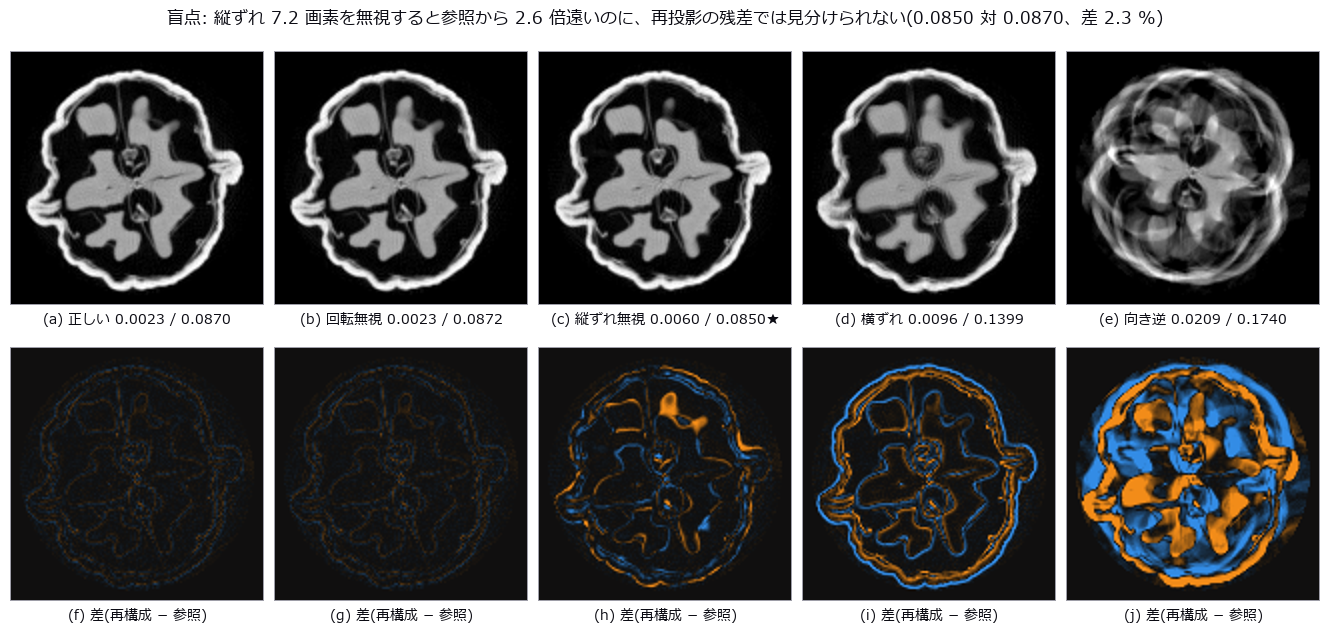
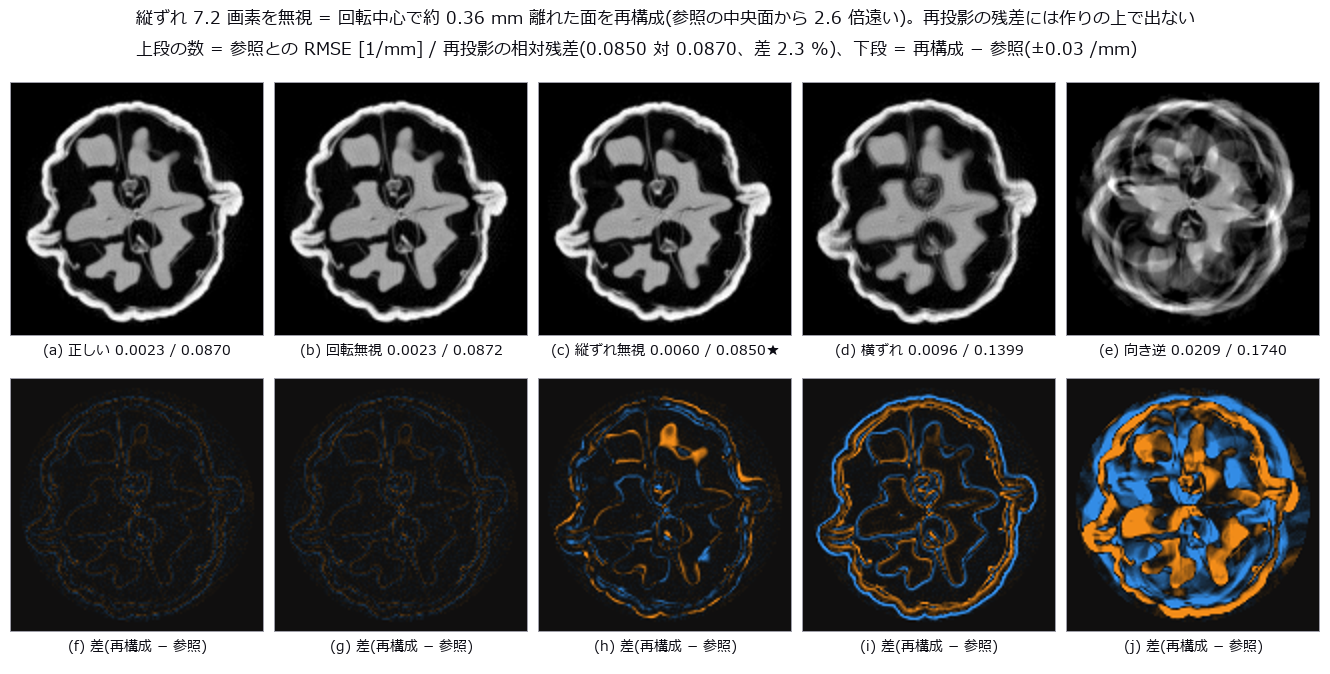
PoC 実測のクルミの CT: 古い数字を記録値にそろえ、縦ずれの「盲点」を作りの上で必ず起きる事として書き直す
独立の敵対的レビュー(2026-11-13)の指摘を再現した:
- 説明文の 25 枚の数字(SIRT 0.0074 / OS-SART 0.0067)と 90° の TV 0.0110 は、反復の回数を
  固定していた 11-09 より前の値。記録(RECORDED、2026-11-09)は SIRT 0.0056 / OS-SART 0.0055 /
  TV 0.0045、90° の TV 0.0107。
- 「縦ずれを無視しても再投影の残差では見えない」は、検出器の別の行 = 回転中心で約 0.36 mm
  離れた面(縦ずれ 1.08 mm × SOD / SDD、格子 0.3 mm の 1.2 個分)を再構成しているだけなので、
  そのデータに矛盾が無く残差が変わらないのは作りの上で必ず起きる。参照との RMSE の悪化
  (2.6 倍)も別の面を比べた差。該当の門(残差 ≤ 正しい幾何の残差)は構成上通る。

直したこと:
- docstring・幾何の取り違えの章の印字・図 07 の題と説明に、上の事を書いた。該当の門を
  「健全性の確認(作りの上で起きる)」と名前を改めた(判定は同じ)。正しい幾何でも再投影の
  相対残差が 0.087 あり内訳を切り分けていない事も書いた。
- 図 07 の題を 2 行にし、上段の 2 つの数の意味と下段の色の尺度(±0.03 /mm)を図の中に書いた。
- CI(データ無し)の印字に、実データの数字を 1 つも確かめていない事を出す。
- 説明(poc_captions.json)の題・本文・図の説明を記録値と上の書き方にそろえ、数字の出どころを
  書いた。CT の新しい機能や実験は足していない。

実走: 縮小(CI=1、合成の門 3 本)と、手元の実データで full(全部の章、門 54 本、約 15 分)。
full の RECORDED_JSON は PoC の RECORDED と処理時間を除いて全部一致(差 0 件)。公開の図は
07 だけ差し替えた(09 の表は処理時間だけが違うので触らない)。

Claude-Session: https://claude.ai/code/session_01AwZFxqx3fbByJvEbUzzbSt

diff --git a/examples/poc_real_walnut_cbct.py b/examples/poc_real_walnut_cbct.py
@@ -42,6 +42,14 @@ doi:10.1038/s41597-019-0235-y; Zenodo doi:10.5281/zenodo.2686726, CC BY 4.0。
 * 幾何の取り違え: 隣接の恒等式 <Ax,y> = <x,Aᵀy> は射影の対が整合しているかを測るだけで、
   データと幾何の食い違いは見えない。取り違え(面内回転・縦ずれ・回転の向き・横ずれ)は
   参照との一致と再投影の残差で見つける。
+  ★縦ずれについての但し書き(2026-11-13、作者と独立の検証の指摘): 「縦ずれを無視」した再構成は、
+  検出器の**別の行**(縦ずれ dh = 1.08 mm、回転中心では dh × SOD / SDD ≈ 0.36 mm 離れた面 =
+  0.30 mm 格子の約 1.2 個分)を、同じ扇形の幾何で再構成している。別の面のデータとして矛盾が無いので、
+  再投影の残差が正しい幾何と変わらないのは**作りの上で必ず起きる**ことで、発見ではない。参照との
+  RMSE が 2.6 倍になるのも、再構成の誤差ではなく「別の面を参照の中央面と比べた」差。ここから言えるのは
+  「再投影の残差は、どの面を再構成したかを教えない(だから外の参照が要る)」までで、該当の門は
+  主張の検査ではなく健全性の確認として数える。
+  正しい幾何でも再投影の相対残差は 0.087 と大きい。内訳(束ね・ビーム硬化・散乱など)は切り分けていない。
 * 二重エネルギー: このデータは 40 kV の 1 エネルギーだけ。**第 2 エネルギーは合成**
   (実データの 1 エネルギーと、仮定した 2 物質の減弱係数の閉形式)で、実データではない。
 
@@ -52,6 +60,8 @@ doi:10.1038/s41597-019-0235-y; Zenodo doi:10.5281/zenodo.2686726, CC BY 4.0。
 
 データが無い環境(CI)では取得せず、下の ``RECORDED`` を印字して、合成の幾何ベクトルで
 幾何の読み替え(``fit_geometry`` / ``ideal_warp``)と隣接の恒等式の門だけを回す。
+**実データの章の数字は CI が守っていない** —— どれも ``RECORDED["date"]`` の手元実行 1 回の記録値で、
+説明文・キャプションの数字はこの記録から取る。
 """
 from __future__ import annotations
 
@@ -921,14 +931,24 @@ def chapter_mistakes(proj: dict, geo: dict, fan: dict, g: Gates) -> dict:
         print("  %-16s RMSE %.4f /mm  SSIM %.3f  再投影の相対残差 %.4f" % (name, sc["rmse"], sc["ssim"], resid))
     ok = rows[0]
     by = {row["name"]: row for row in rows}
+    slice_shift = abs(fit["dh_mm"]) * fit["dso"] / fit["dsd"]
+    print("  ※「縦ずれを無視」= 検出器の別の行を同じ扇形の幾何で再構成している(縦ずれ %.2f mm、回転中心で約 %.2f mm 離れた面"
+          " = 格子 %.1f mm の %.1f 個分)。別の面のデータとして矛盾が無いので、再投影の残差が正しい幾何と変わらないのは"
+          "作りの上で必ず起きる。参照との RMSE の悪化は「別の面を比べた」差で、再構成の誤差ではない。"
+          % (abs(fit["dh_mm"]), slice_shift, FAN_VOXEL, slice_shift / FAN_VOXEL))
+    print("  ※ 正しい幾何でも再投影の相対残差は %.3f ある。内訳(束ね・ビーム硬化・散乱など)は切り分けていない。" % ok["resid"])
     roll = by["面内回転 0.5° を無視"]
     g.check("取り違え", "面内回転 0.5° は中央面の 0.3 mm 格子では効かない(RMSE の差 < 5 %)",
             abs(roll["rmse"] / ok["rmse"] - 1) < 0.05, "%.5f / %.5f" % (roll["rmse"], ok["rmse"]))
     for row in rows[2:]:
+        # 縦ずれの行は「別の面を参照の中央面と比べた」差(再構成の誤差ではない)。ほかの 2 つは同じ面での誤り。
         g.check("取り違え", "%s: 参照との RMSE が正しい幾何の 2 倍超" % row["name"], row["rmse"] > 2 * ok["rmse"],
                 "%.4f / %.4f" % (row["rmse"], ok["rmse"]))
     voff = by["縦ずれ 7.2 画素を無視"]
-    g.check("取り違え", "盲点: 縦ずれは再投影の残差では見つからない(正しい幾何の残差以下)",
+    # ★主張の検査ではない。別の行のデータも矛盾の無いデータなので、この不等式は作りの上でほぼ必ず通る
+    #   (2 つの行の雑音・散乱の差だけで決まる)。落ちたら fan_data / 再投影の配線が壊れた印として読む。
+    g.check("取り違え", "健全性の確認(作りの上で起きる): 縦ずれを無視 = 別の行の面を再構成しているので、"
+            "再投影の残差は正しい幾何の残差以下",
             voff["resid"] <= ok["resid"], "%.4f ≤ %.4f(別の高さの行も、それ自体は矛盾の無いデータ)"
             % (voff["resid"], ok["resid"]))
     big = [r for r in rows[1:] if r["name"] in ("横に 1 画素(0.3 mm)ずらす", "回転の向きを逆に")]
@@ -951,7 +971,7 @@ def chapter_mistakes(proj: dict, geo: dict, fan: dict, g: Gates) -> dict:
     g.check("取り違え", "A と Aᵀ の幾何を食い違わせると恒等式は崩れる(相対差 > 1e-3)", gap_mismatch > 1e-3,
             "%.1e" % gap_mismatch)
     return {"rows": rows, "images": images, "adjoint_fan": gap_fan, "adjoint_cone": gap_cone,
-            "adjoint_mismatch": gap_mismatch}
+            "adjoint_mismatch": gap_mismatch, "slice_shift_mm": slice_shift}
 
 
 # --------------------------------------------------------------------------- #
@@ -1173,13 +1193,17 @@ def write_figures(fan: dict, cone: dict, mis: dict, dual: dict, g: Gates) -> Non
             + ["差(再構成 − 参照)" for _ in names])
     figs.save_grid("geometry_mistakes", panels, captions=caps, ncols=5, gray=[True] * 5 + [False] * 5,
                    signed=[False] * 5 + [True] * 5, vrange=[vr] * 5 + [(-0.03, 0.03)] * 5,
-                   title="盲点: 縦ずれ 7.2 画素を無視すると参照から %.1f 倍遠いのに、再投影の残差では見分けられない"
-                         "(%.4f 対 %.4f、差 %.1f %%)" % (vo["rmse"] / okr["rmse"], vo["resid"], okr["resid"],
-                                                    100 * abs(vo["resid"] - okr["resid"]) / okr["resid"]),
+                   title="縦ずれ 7.2 画素を無視 = 回転中心で約 %.2f mm 離れた面を再構成(参照の中央面から %.1f 倍遠い)。"
+                         "再投影の残差には作りの上で出ない\n"
+                         "上段の数 = 参照との RMSE [1/mm] / 再投影の相対残差(%.4f 対 %.4f、差 %.1f %%)、下段 = 再構成 − 参照(±0.03 /mm)"
+                         % (mis["slice_shift_mm"], vo["rmse"] / okr["rmse"], vo["resid"], okr["resid"],
+                            100 * abs(vo["resid"] - okr["resid"]) / okr["resid"]),
                    caption="中央面の FDK、全 300 枚。上段 = 再構成(参照との RMSE [1/mm] / 再投影の相対残差。★ = 残差が正しい幾何以下)、"
                            "左から 正しい / 面内回転 0.5° を無視 / 縦ずれ 7.2 画素を無視 / 横に 0.3 mm ずらす / 回転の向きを逆に。下段 = 差 "
-                           "±0.03 /mm。縦ずれを無視したデータも、それ自体は矛盾の無いデータなので、再構成した像を投影し直すと"
-                           "データによく合う —— 残差では幾何の誤りが見えない。参照(外の真値)と比べて初めて分かる。"
+                           "(色の尺度 ±0.03 /mm)。縦ずれを無視 = 検出器の別の行(別の面)を再構成しているので、そのデータは"
+                           "それ自体に矛盾が無く、再構成した像を投影し直すとデータによく合う。これは作りの上で必ず起きることで、"
+                           "発見ではない: 再投影の残差は「どの面を再構成したか」を教えず、参照(外の真値)と比べて初めて分かる。"
+                           "参照との RMSE の悪化は別の面を比べた差で、再構成の誤差ではない。"
                            "横ずれと回転の向きの取り違えは残差にも出る。隣接の恒等式はどの取り違えでも 1e-10 以下で成り立つ。")
     lim1 = float(np.percentile(np.abs(dual["basis_1"][mask]), 99.5))
     figs.save_grid("dual_energy_synthetic", [dual["shell"], dual["basis_0"], dual["basis_1"]],
@@ -1204,6 +1228,8 @@ def write_figures(fan: dict, cone: dict, mis: dict, dual: dict, g: Gates) -> Non
 
 def _print_recorded():
     print("実データが無いため実データの章を飛ばす。CI は取得しない(tools/fetch_walnut_cbct.py)。")
+    print("★この実行は実データの数字を 1 つも確かめていない。下の記録値は %s の手元実行 1 回のもの(合成の門だけが走る)。"
+          % RECORDED.get("date", "?"))
     print("記録値(RECORDED): " + json.dumps(RECORDED, ensure_ascii=False, sort_keys=True))
 
 
